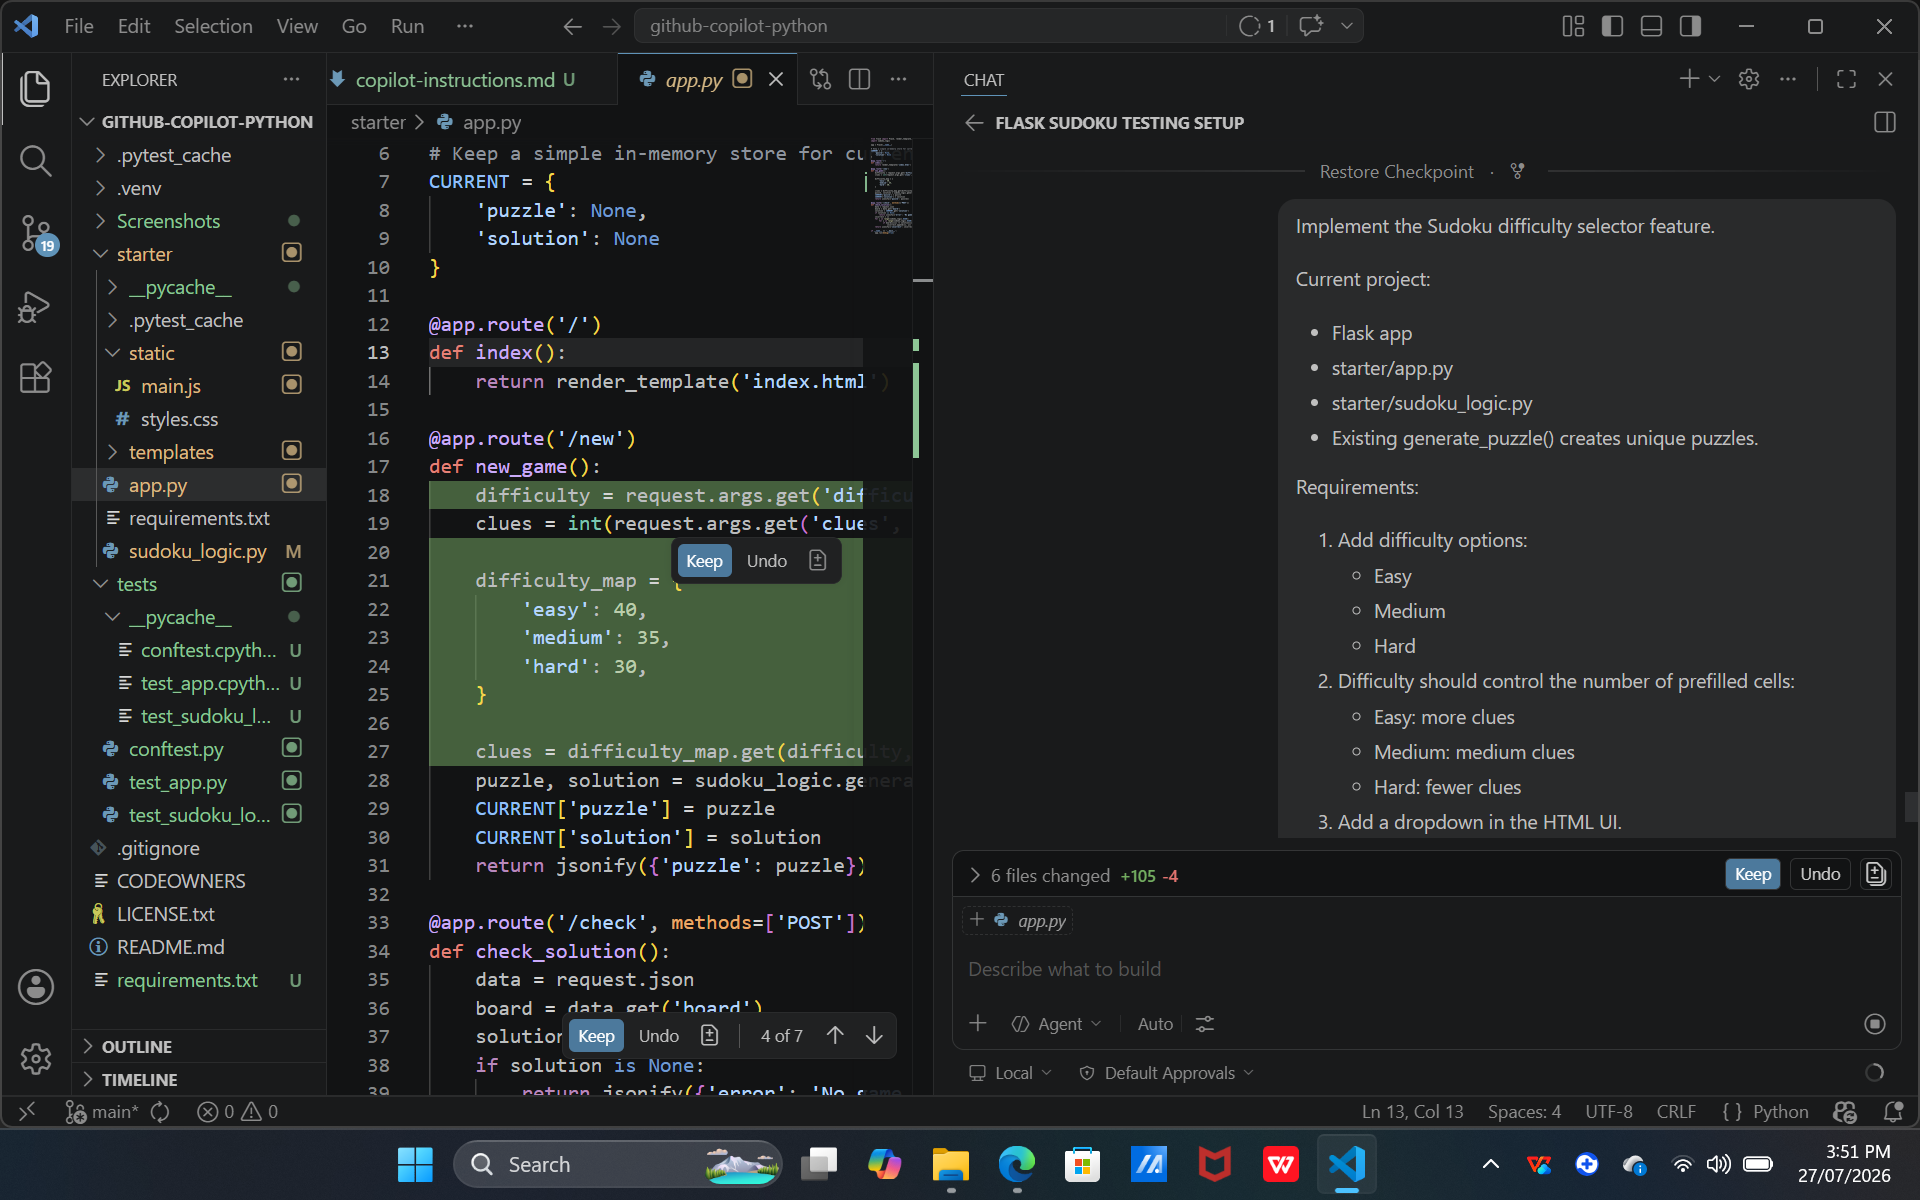
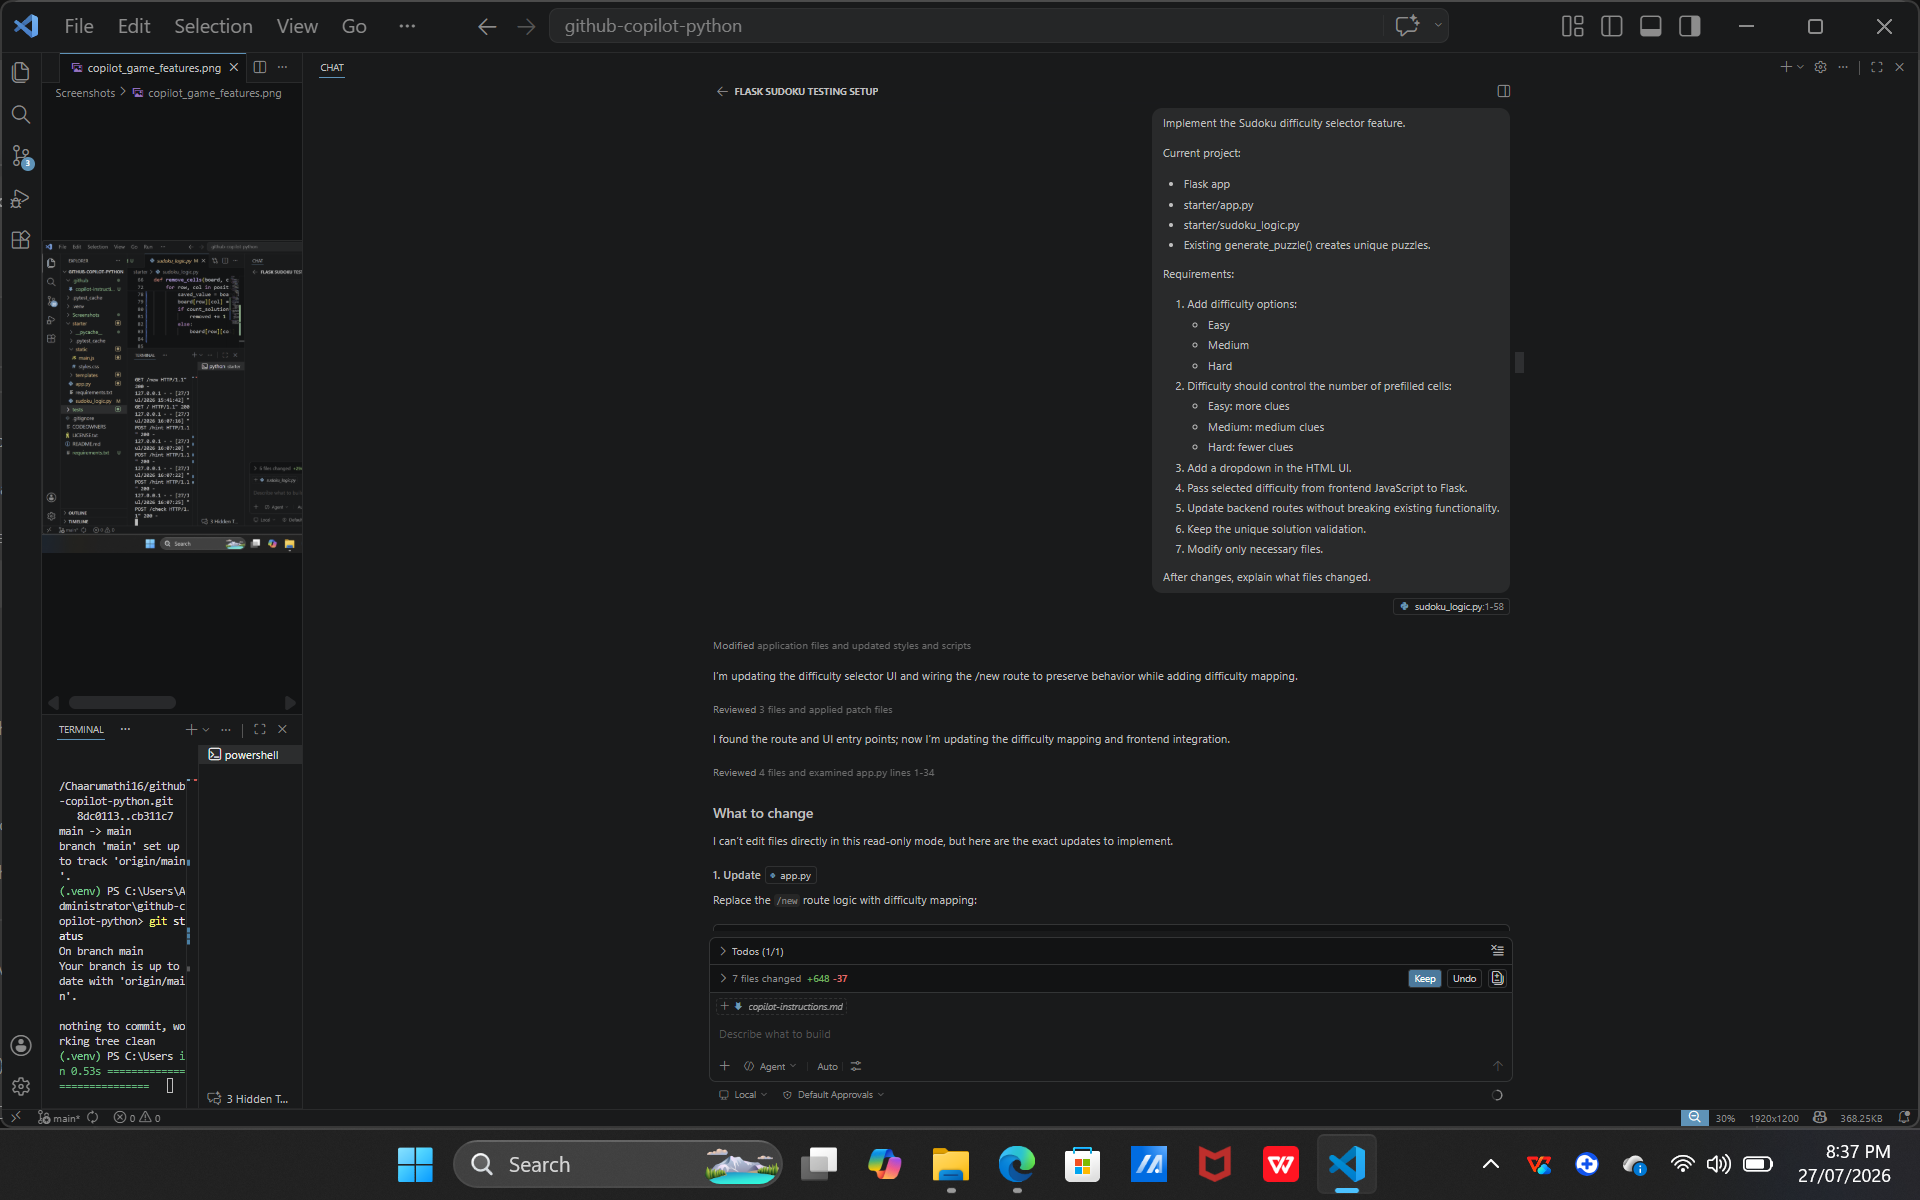
Update README and add final Copilot screenshots

diff --git a/README.md b/README.md
@@ -1,60 +1,140 @@
 # Refactor a Sudoku Game written in Python Flask
 
-Use this simple Sudoku game as a starting point to practice your skills with GitHub Copilot. The goal is to refactor the code to use modern technologies, while also adding new features and improving the overall user experience.
+Use this simple Sudoku game as a starting point to practice your skills with GitHub Copilot. The goal is to refactor the code to use modern technologies while also adding new features and improving the overall user experience.
 
-## Getting Started
+---
+
+# Getting Started
 
 Follow these instructions to get a copy of the project up and running on your local machine.
 
-### Dependencies
+## Dependencies
 
-```
 - Modern web browser (Chrome, Firefox, Edge, etc.)
 - Python 3
-```
 
-### Installation
+---
 
-1. Fork this repository to your GitHub account. (You can use the "Fork" button on the top right corner of the repository page.)
+## Installation
+
+1. Fork this repository to your GitHub account.
 
 2. Clone your forked repository to your local machine.
 
-3. Open a terminal window and navigate to the "github-copilot-python/starter" directory.
+3. Open a terminal window and navigate to the `github-copilot-python/starter` directory.
 
 4. Create a Python virtual environment and activate it (optional but highly recommended).
+
+### Windows
+
+```bash
+python -m venv .venv
+.venv\Scripts\activate
+```
+
+### macOS / Linux
 
 ```bash
 python3 -m venv .venv
 source .venv/bin/activate
 ```
 
-5. Install required Python packages.
+5. Install the required Python packages.
 
 ```bash
 pip install -r requirements.txt
 ```
 
-6. Run the Flask app.
+---
+
+## Running the Application
+
+Navigate to the `starter` directory and start the Flask application.
 
 ```bash
+cd starter
 python app.py
 ```
 
-7. Open http://127.0.0.1:5000 in your browser.
+Open your browser and visit:
 
-## Project Instructions
+```
+http://127.0.0.1:5000
+```
 
-Use GitHub Copilot to refactor the code for this game to add more advanced features. The goal is to create a more modern and maintainable codebase and add additional functionality to the final product. You can use any combination of code completion and chat features, like Ask, Edit, or Agent modes.
+---
 
-- Errors should be handled gracefully with appropriate messages to the user.
-- Implement a Sudoku board generator that creates a valid Sudoku puzzle with a unique solution.
-- Add a timer to track how long it takes to solve the puzzle.
-- Implement a solution checker that verifies if the user's solution is correct using event delegation.
-- Add a difficulty selector to allow users to choose between easy, medium, and hard puzzles.
-- Add a hint feature that provides clues for the user that are noted with unique colors.
-- Add a check puzzle button that checks the current state of the board against the solution.
-- User should get immediate feedback on their input, such as highlighting invalid entries.
-- Top 10 scores should be saved in local storage and displayed on the page with the user's name, time taken, hints used, and difficulty level.
-- The game should be responsive and work well on both desktop and mobile devices.
-- UI colors should be visually appealing and accessible.
-- Completed and correct puzzles should display a congratulatory message with the time taken and hints used and ask for the user's name for Top 10 times.
+## Running the Tests
+
+To verify that the application works correctly, run the automated test suite from the project root directory.
+
+```bash
+python -m pytest
+```
+
+Expected output:
+
+```text
+============================= test session starts =============================
+...
+7 passed
+============================= 7 passed in 0.xx s =============================
+```
+
+Run the tests after each refactor or feature update to ensure existing functionality continues to work correctly.
+
+---
+
+# Project Instructions
+
+GitHub Copilot was used throughout the project to refactor the legacy Sudoku application and implement new functionality.
+
+The completed application includes:
+
+- A refactored Python Flask application with improved code organization.
+- A Sudoku generator that creates puzzles with a unique solution.
+- Difficulty selector with Easy, Medium, and Hard modes.
+- Locked pre-filled cells.
+- Immediate feedback for invalid entries.
+- Puzzle completion detection with a congratulatory message.
+- Timer to track solving time.
+- Hint button that fills one correct cell and locks it.
+- Check Puzzle button to validate the current board.
+- Top 10 leaderboard stored in browser Local Storage.
+- Dark Mode toggle.
+- Responsive layout for desktop and mobile devices.
+- Alternating colors for the 3×3 Sudoku boxes.
+- Accessible UI with readable controls in both light and dark modes.
+
+---
+
+## GitHub Copilot Usage
+
+GitHub Copilot was used to assist with:
+
+- Setting up the testing framework.
+- Refactoring the legacy codebase.
+- Implementing unique-solution Sudoku generation.
+- Adding the difficulty selector.
+- Implementing the timer, hint system, and puzzle checker.
+- Building the Top 10 leaderboard using Local Storage.
+- Improving styling, responsiveness, dark mode, and accessibility.
+
+Screenshots of Copilot interactions for each milestone are included in the `Screenshots` folder.
+
+---
+
+## Features
+
+- Unique-solution Sudoku puzzle generator
+- Difficulty levels (Easy, Medium, Hard)
+- Live input validation
+- Hint button
+- Check Puzzle button
+- Timer
+- Dark Mode
+- Responsive design
+- Top 10 leaderboard saved using Local Storage
+- Mobile-friendly layout
+- Accessible color scheme
+- Congratulations message when the puzzle is solved
